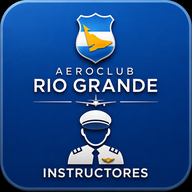
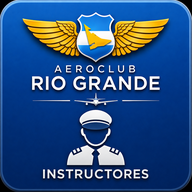
Add files via upload

diff --git a/vuelo.html b/vuelo.html
@@ -2,6 +2,13 @@
 <!--
 ==================================================================================
   VUELO — App de registro de vuelo · Aeroclub Río Grande
+  v2.5 · 2026-08-03
+  Pedido de Daniel: el nombre que se ve al instalar en el celular pasa de
+  "ACRG Vuelo" a "Instructores". apple-mobile-web-app-title cambiado acá
+  (define el nombre en iOS) y short_name en manifest-vuelo.json cambiado
+  a "Instructores" (define el nombre en Android). Ícono también nuevo
+  (aporte de Daniel), mismo procesamiento de esquinas de siempre.
+  Ver anterior:
   v2.4 · 2026-08-03
   Versión de la app siempre visible en pantalla (antes solo estaba en este
   comentario). Nueva constante APP_VERSION en el script, que puebla todos
@@ -53,7 +60,7 @@
 <meta name="viewport" content="width=device-width,initial-scale=1,maximum-scale=1,user-scalable=no">
 <meta name="apple-mobile-web-app-capable" content="yes">
 <meta name="apple-mobile-web-app-status-bar-style" content="black-translucent">
-<meta name="apple-mobile-web-app-title" content="ACRG Vuelo">
+<meta name="apple-mobile-web-app-title" content="Instructores">
 <meta name="theme-color" content="#050d1a">
 <link rel="apple-touch-icon" href="/icon-vuelo-192.png">
 <link rel="manifest" href="/manifest-vuelo.json">
@@ -412,7 +419,7 @@ let tsInicio = null;      // ISO string — momento de START
 let tsFin = null;         // ISO string — momento de STOP
 let vistaActual = 'loading'; // 'loading' | 'lista' | 'vuelo' — para saber si el auto-refresh puede tocar la pantalla sin interrumpir
 const LS = 'acrg-vuelo-v2';
-const APP_VERSION = '2.4'; // ⚠ actualizar acá Y en el comentario header de arriba en cada bump
+const APP_VERSION = '2.5'; // ⚠ actualizar acá Y en el comentario header de arriba en cada bump
 document.querySelectorAll('.ver').forEach(el=>el.textContent='v'+APP_VERSION);
 
 // ── Init ─────────────────────────────────────────────────
